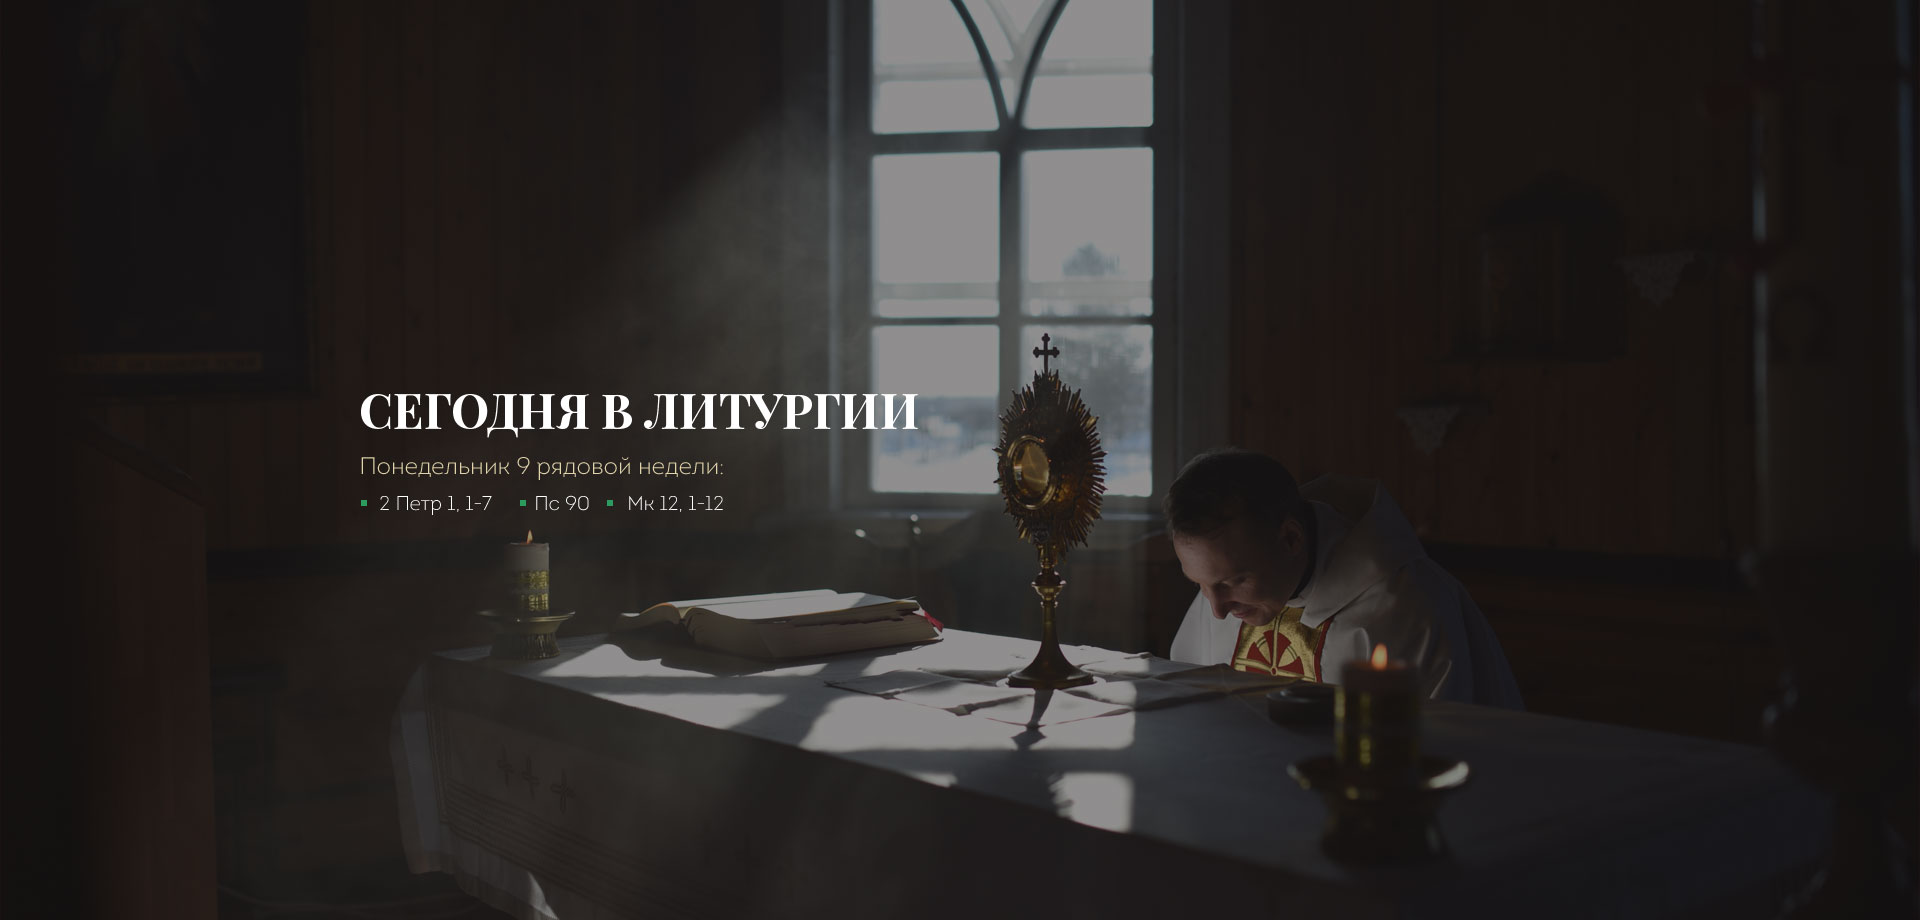
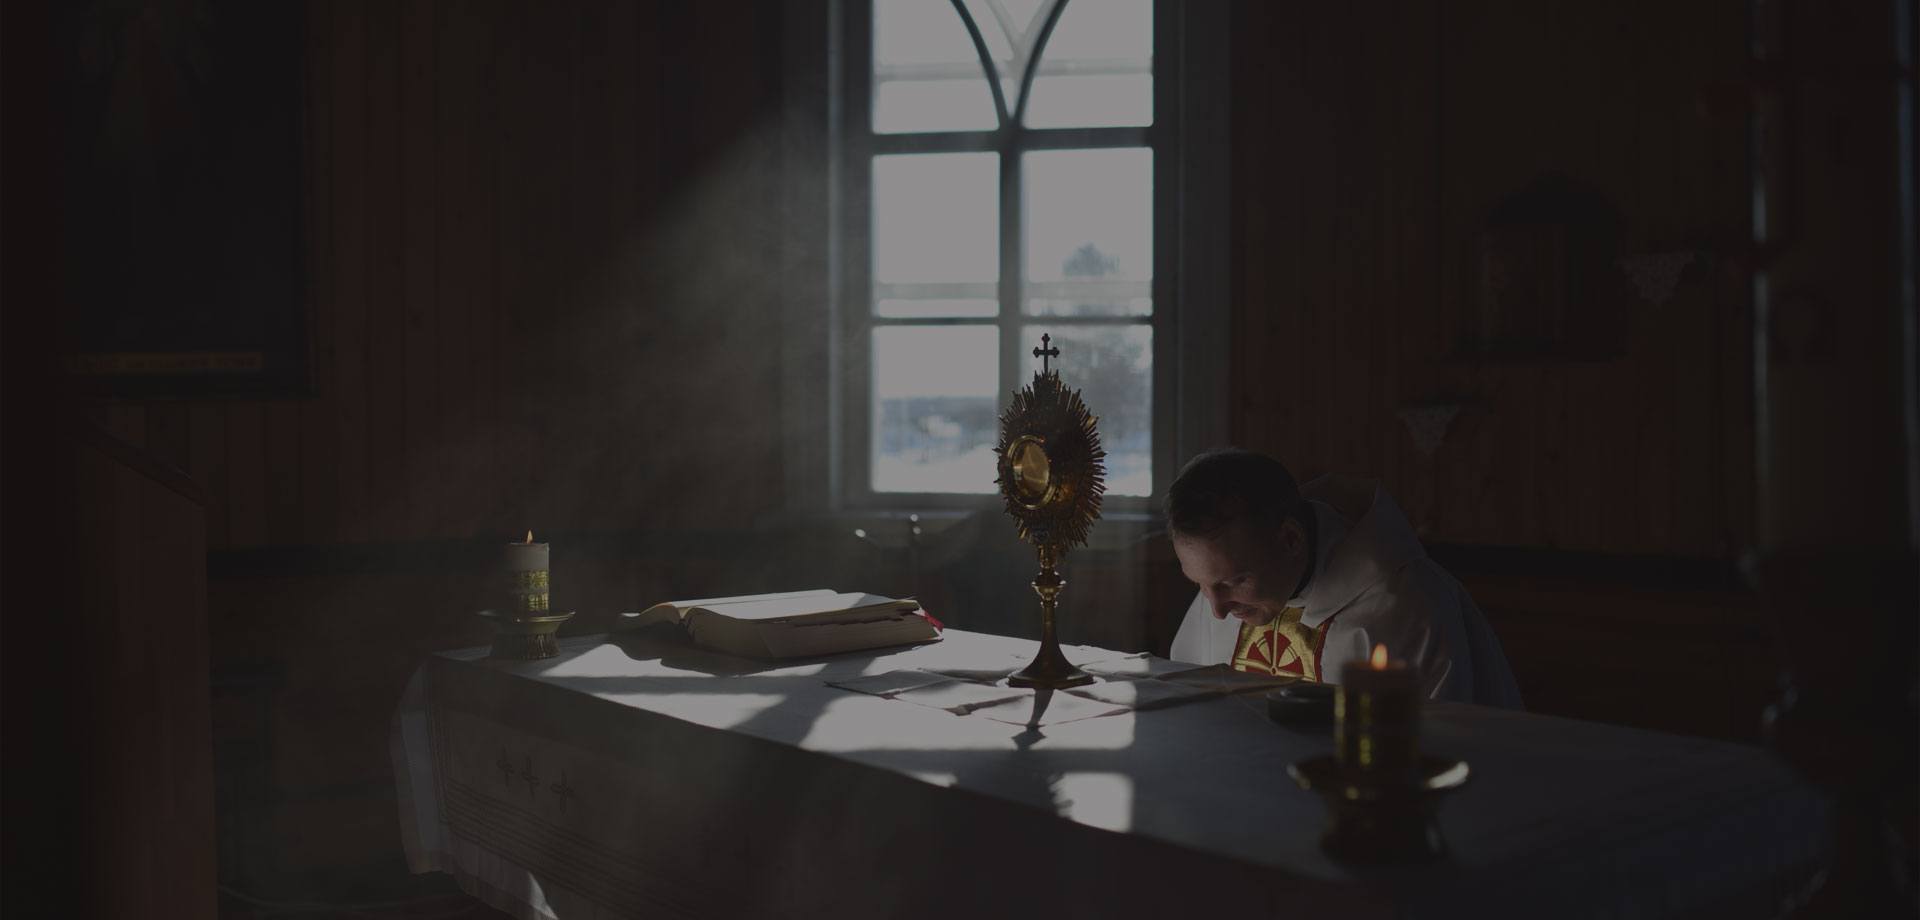
Обновлен блок шапки

Changed region(s): [[0.1875, 0.4261, 0.5, 0.5174]]

diff --git a/catholic.tomsk.ru/css/app.css b/catholic.tomsk.ru/css/app.css
@@ -403,6 +403,49 @@ body {
     margin-left: 30px;
   }
 
+  .header-announce {
+    margin-top: 180px;
+  }
+
+  .header-announce-title {
+    color: #FFFFFF;
+    font-family: "intro-light", "Helvetica", "Arial", sans-serif;
+    font-size: 49px;
+    text-transform: uppercase;
+    letter-spacing: 1px;
+  }
+
+  .header-announce-text {
+    color: #cabc93;
+    font-family: "intro-light", "Helvetica", "Arial", sans-serif;
+    margin-top: 10px;
+    font-size: 24px;
+  }
+
+  .header-announce-schedule {
+    color: #FFFFFF;
+    font-family: "intro-light", "Helvetica", "Arial", sans-serif;
+    margin-top: 15px;
+    font-size: 18px;
+  }
+
+  .header-announce-schedule-item {
+    position: relative;
+    display: inline-block;
+    margin-right: 20px;
+    padding-left: 15px;
+  }
+
+  .header-announce-schedule-item::after {
+    content: '';
+    background-color: #2c9b5e;
+    height: 6px;
+    width: 6px;
+    position: absolute;
+    left: 0;
+    top: 6px;
+  }
+
   .content-block {
     padding: 40px 80px;
     margin-top: -130px;

diff --git a/catholic.tomsk.ru/index.html b/catholic.tomsk.ru/index.html
@@ -28,6 +28,15 @@
                 <a href="#">Контакты</a>
             </div>
         </div>
+        <div class="header-announce">
+            <div class="header-announce-title">Сегодня в литургии</div>
+            <div class="header-announce-text">Понедельник 9 рядовой недели:</div>
+            <div class="header-announce-schedule">
+                <div class="header-announce-schedule-item">2 Петр 1, 1-7</div>
+                <div class="header-announce-schedule-item">Пс 90</div>
+                <div class="header-announce-schedule-item">Мк 12, 1-12</div>
+            </div>
+        </div>
     </div>
 </div>
 
